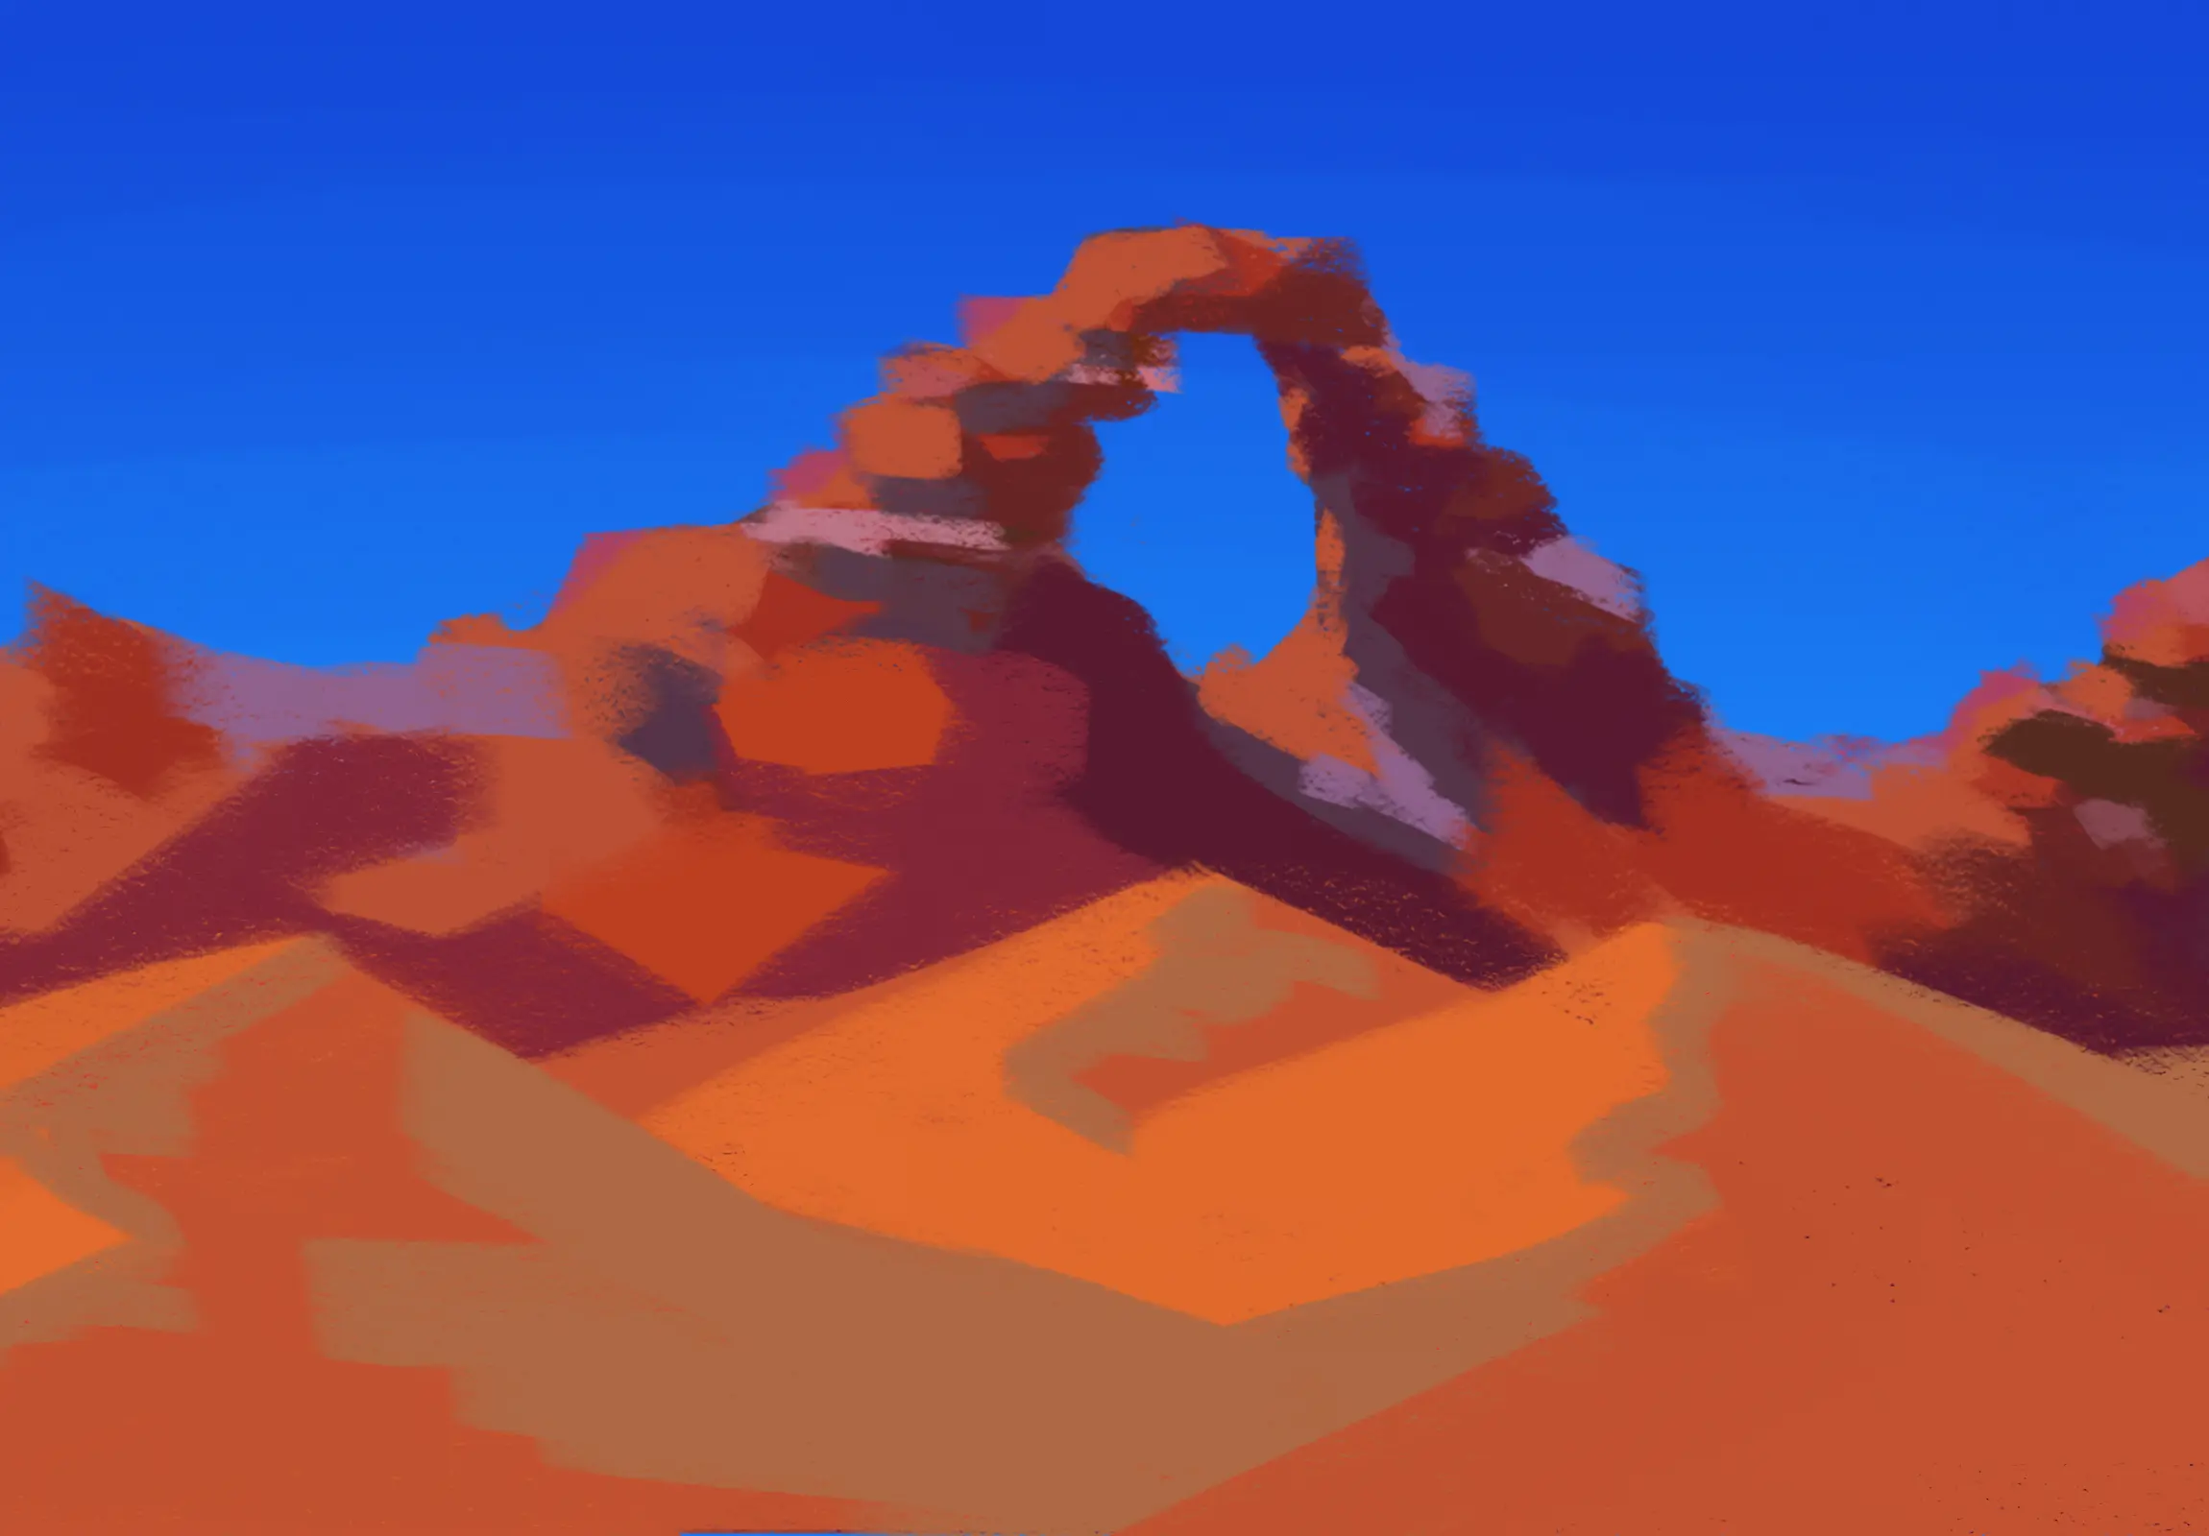
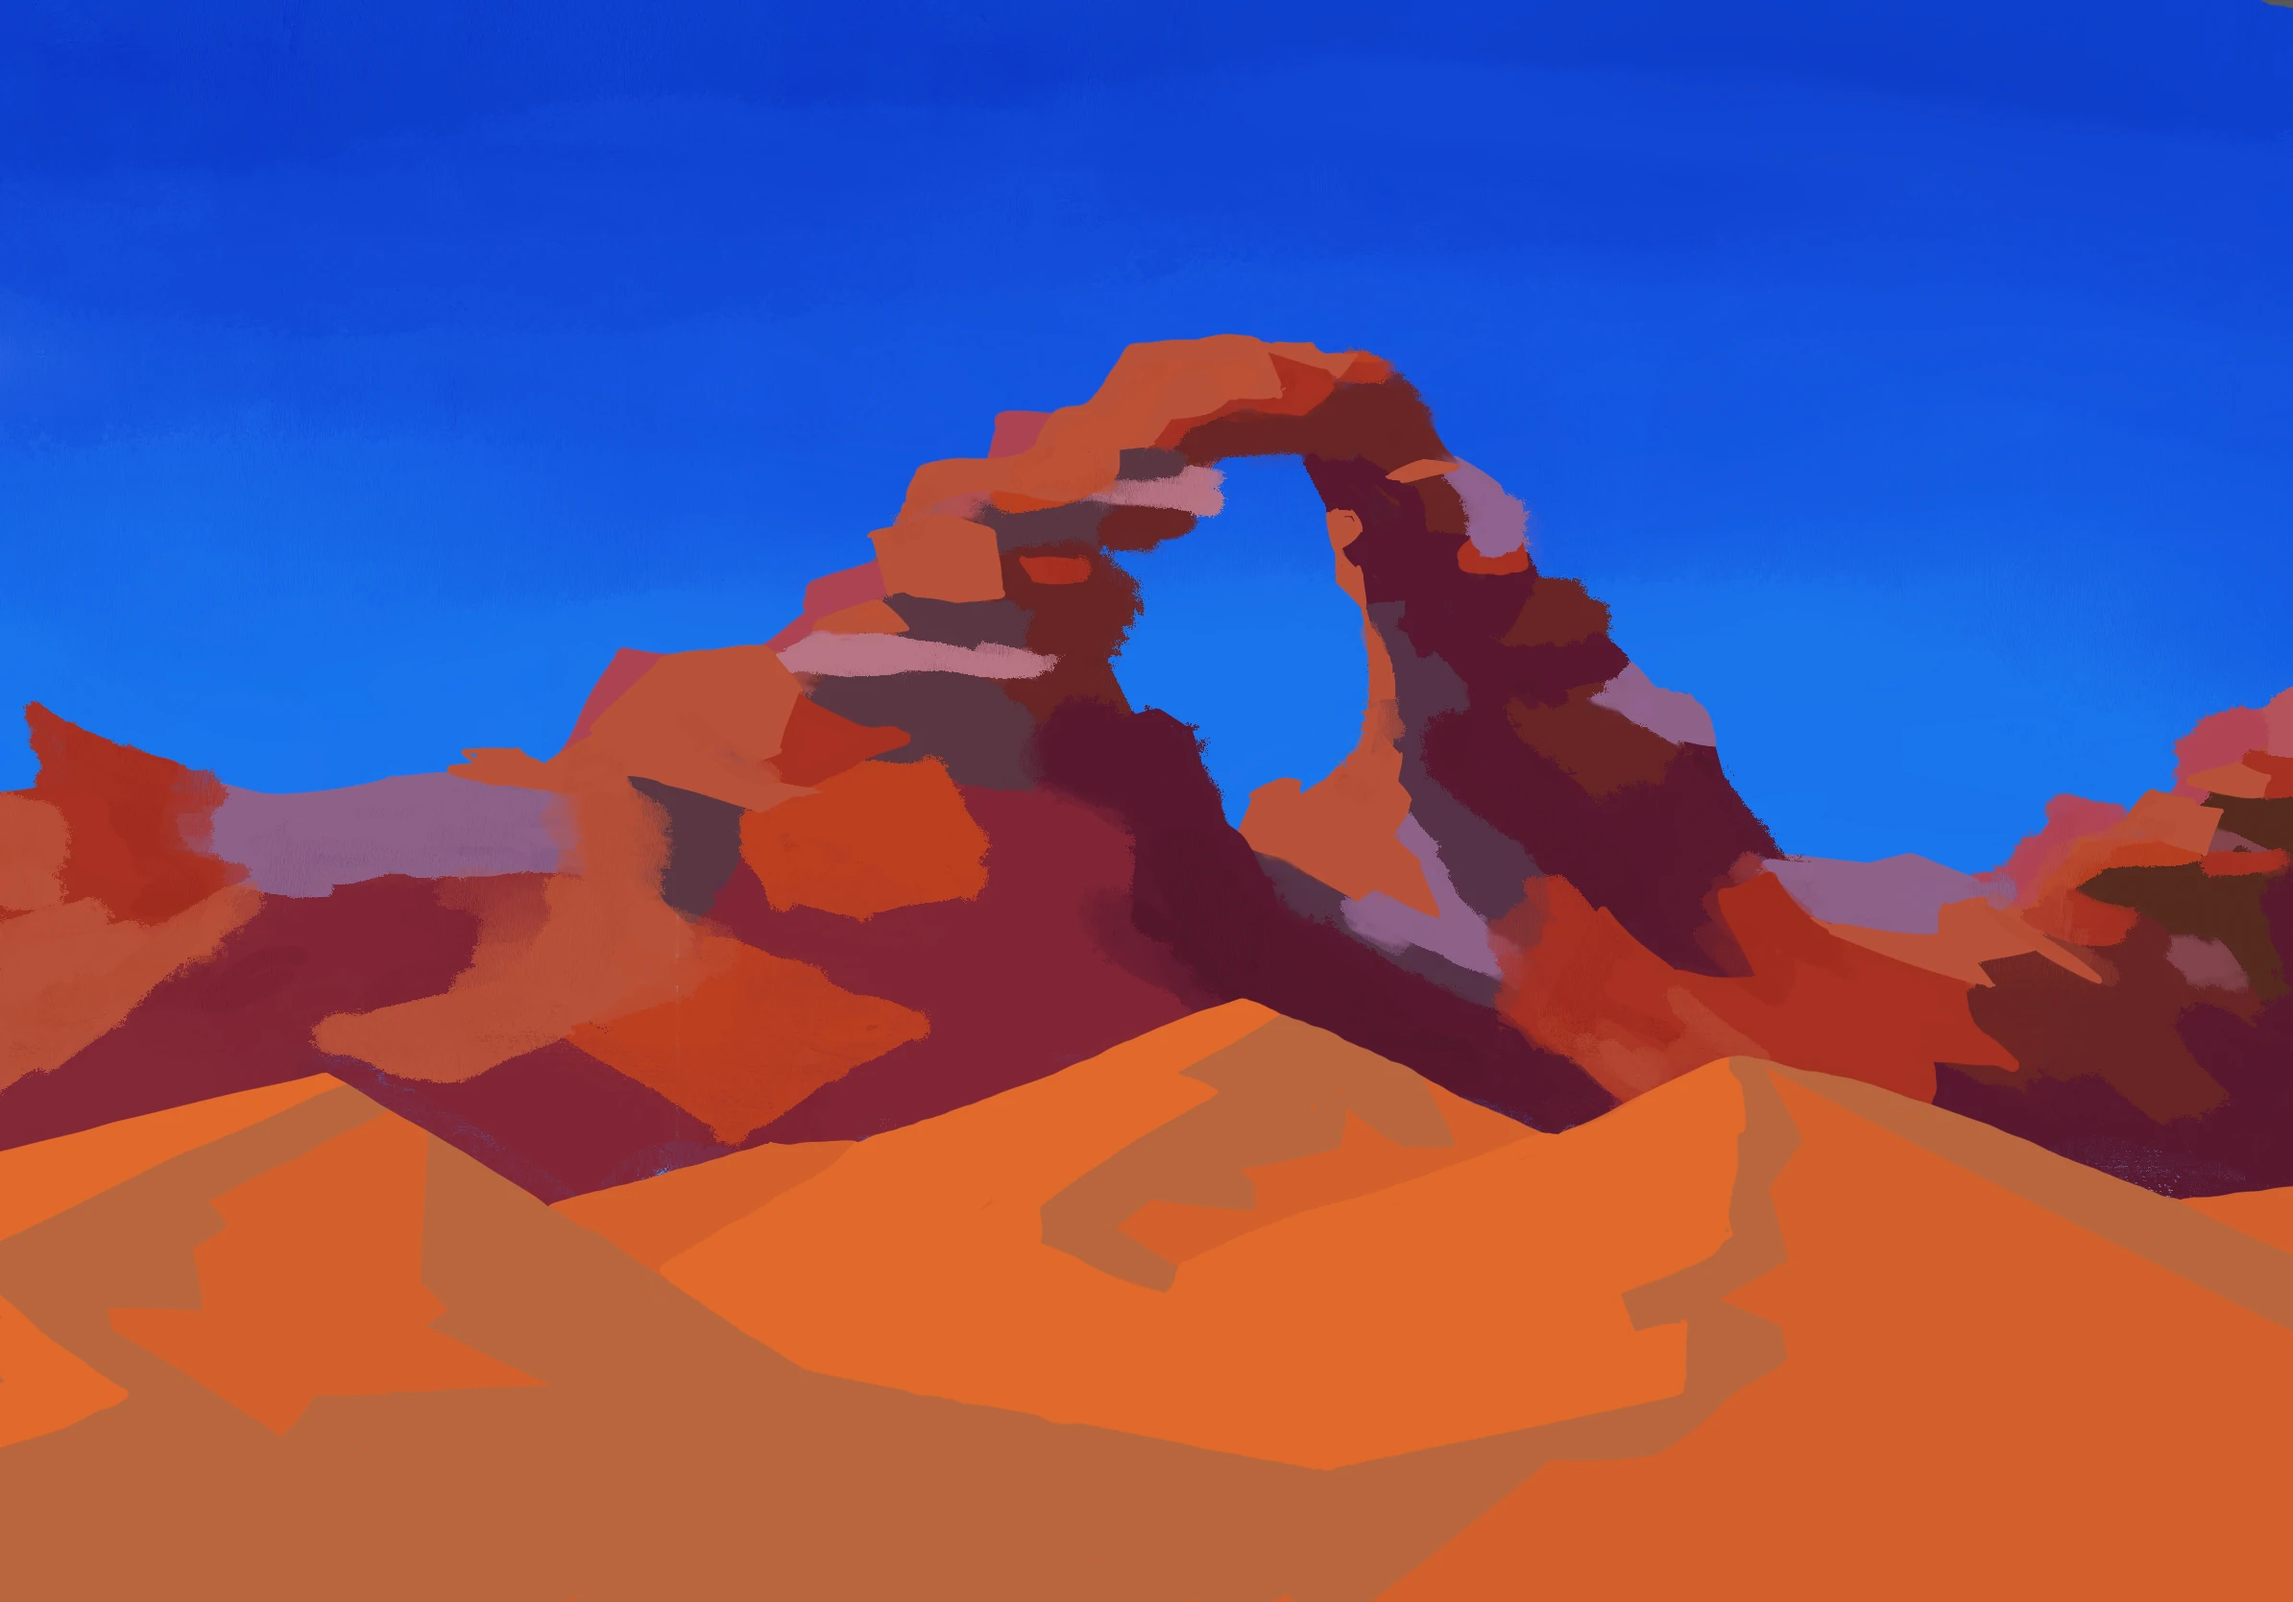
Desert background

diff --git a/App/Levels/wave.js b/App/Levels/wave.js
@@ -63,7 +63,7 @@ const WAVE = [
       },
     ],
     sky: {
-      asset: 'images.sinusoidaldesertbiome_1',
+      asset: 'images.sinusoidal_desert_background',
       margin: 1,
     },
   },
@@ -133,7 +133,7 @@ const WAVE = [
       },
     ],
     sky: {
-      asset: 'images.sinusoidaldesertbiome_1',
+      asset: 'images.sinusoidal_desert_background',
       margin: 1,
     },
   },
@@ -175,7 +175,7 @@ const WAVE = [
       },
     ],
     sky: {
-      asset: 'images.sinusoidaldesertbiome_1',
+      asset: 'images.sinusoidal_desert_background',
       margin: 1,
     },
   },
@@ -220,7 +220,7 @@ const WAVE = [
       },
     ],
     sky: {
-      asset: 'images.sinusoidaldesertbiome_1',
+      asset: 'images.sinusoidal_desert_background',
       margin: 1,
     },
   },
@@ -261,7 +261,7 @@ const WAVE = [
       },
     ],
     sky: {
-      asset: 'images.sinusoidaldesertbiome_1',
+      asset: 'images.sinusoidal_desert_background',
       margin: 1,
     },
   },
@@ -306,7 +306,7 @@ const WAVE = [
       },
     ],
     sky: {
-      asset: 'images.sinusoidaldesertbiome_1',
+      asset: 'images.sinusoidal_desert_background',
       margin: 1,
     },
   },
@@ -345,7 +345,7 @@ const WAVE = [
       },
     ],
     sky: {
-      asset: 'images.sinusoidaldesertbiome_1',
+      asset: 'images.sinusoidal_desert_background',
       margin: 1,
     },
   },

diff --git a/App/eden.js b/App/eden.js
@@ -15,8 +15,7 @@ worldData.push({
       lavamonster_jaw: '.webp',
       lavamonster_top_jaw: '.webp',
       lavamonster_bottom_jaw: '.webp',
-      sinusoidaldesertbiome_1: 'sinusoidaldesertbiome_1.webp',
-      sinusoidaldesertbiome_2: 'sinusoidaldesertbiome_2.webp',
+      sinusoidal_desert_background: 'sinusoidal_desert_background.webp',
       sam_sled: 'ada_sled.webp',
       sam_float: 'ada_float_right.webp',
       sam_float_dark: '.svg',

diff --git a/App/Levels/desert.js b/App/Levels/desert.js
@@ -43,7 +43,7 @@ const DESERT = {
   ],
   goals: [],
   sky: {
-    asset: 'images.sinusoidaldesertbiome_2',
+    asset: 'images.sinusoidal_desert_background',
     margin: 1,
   },
   dialogue: [
